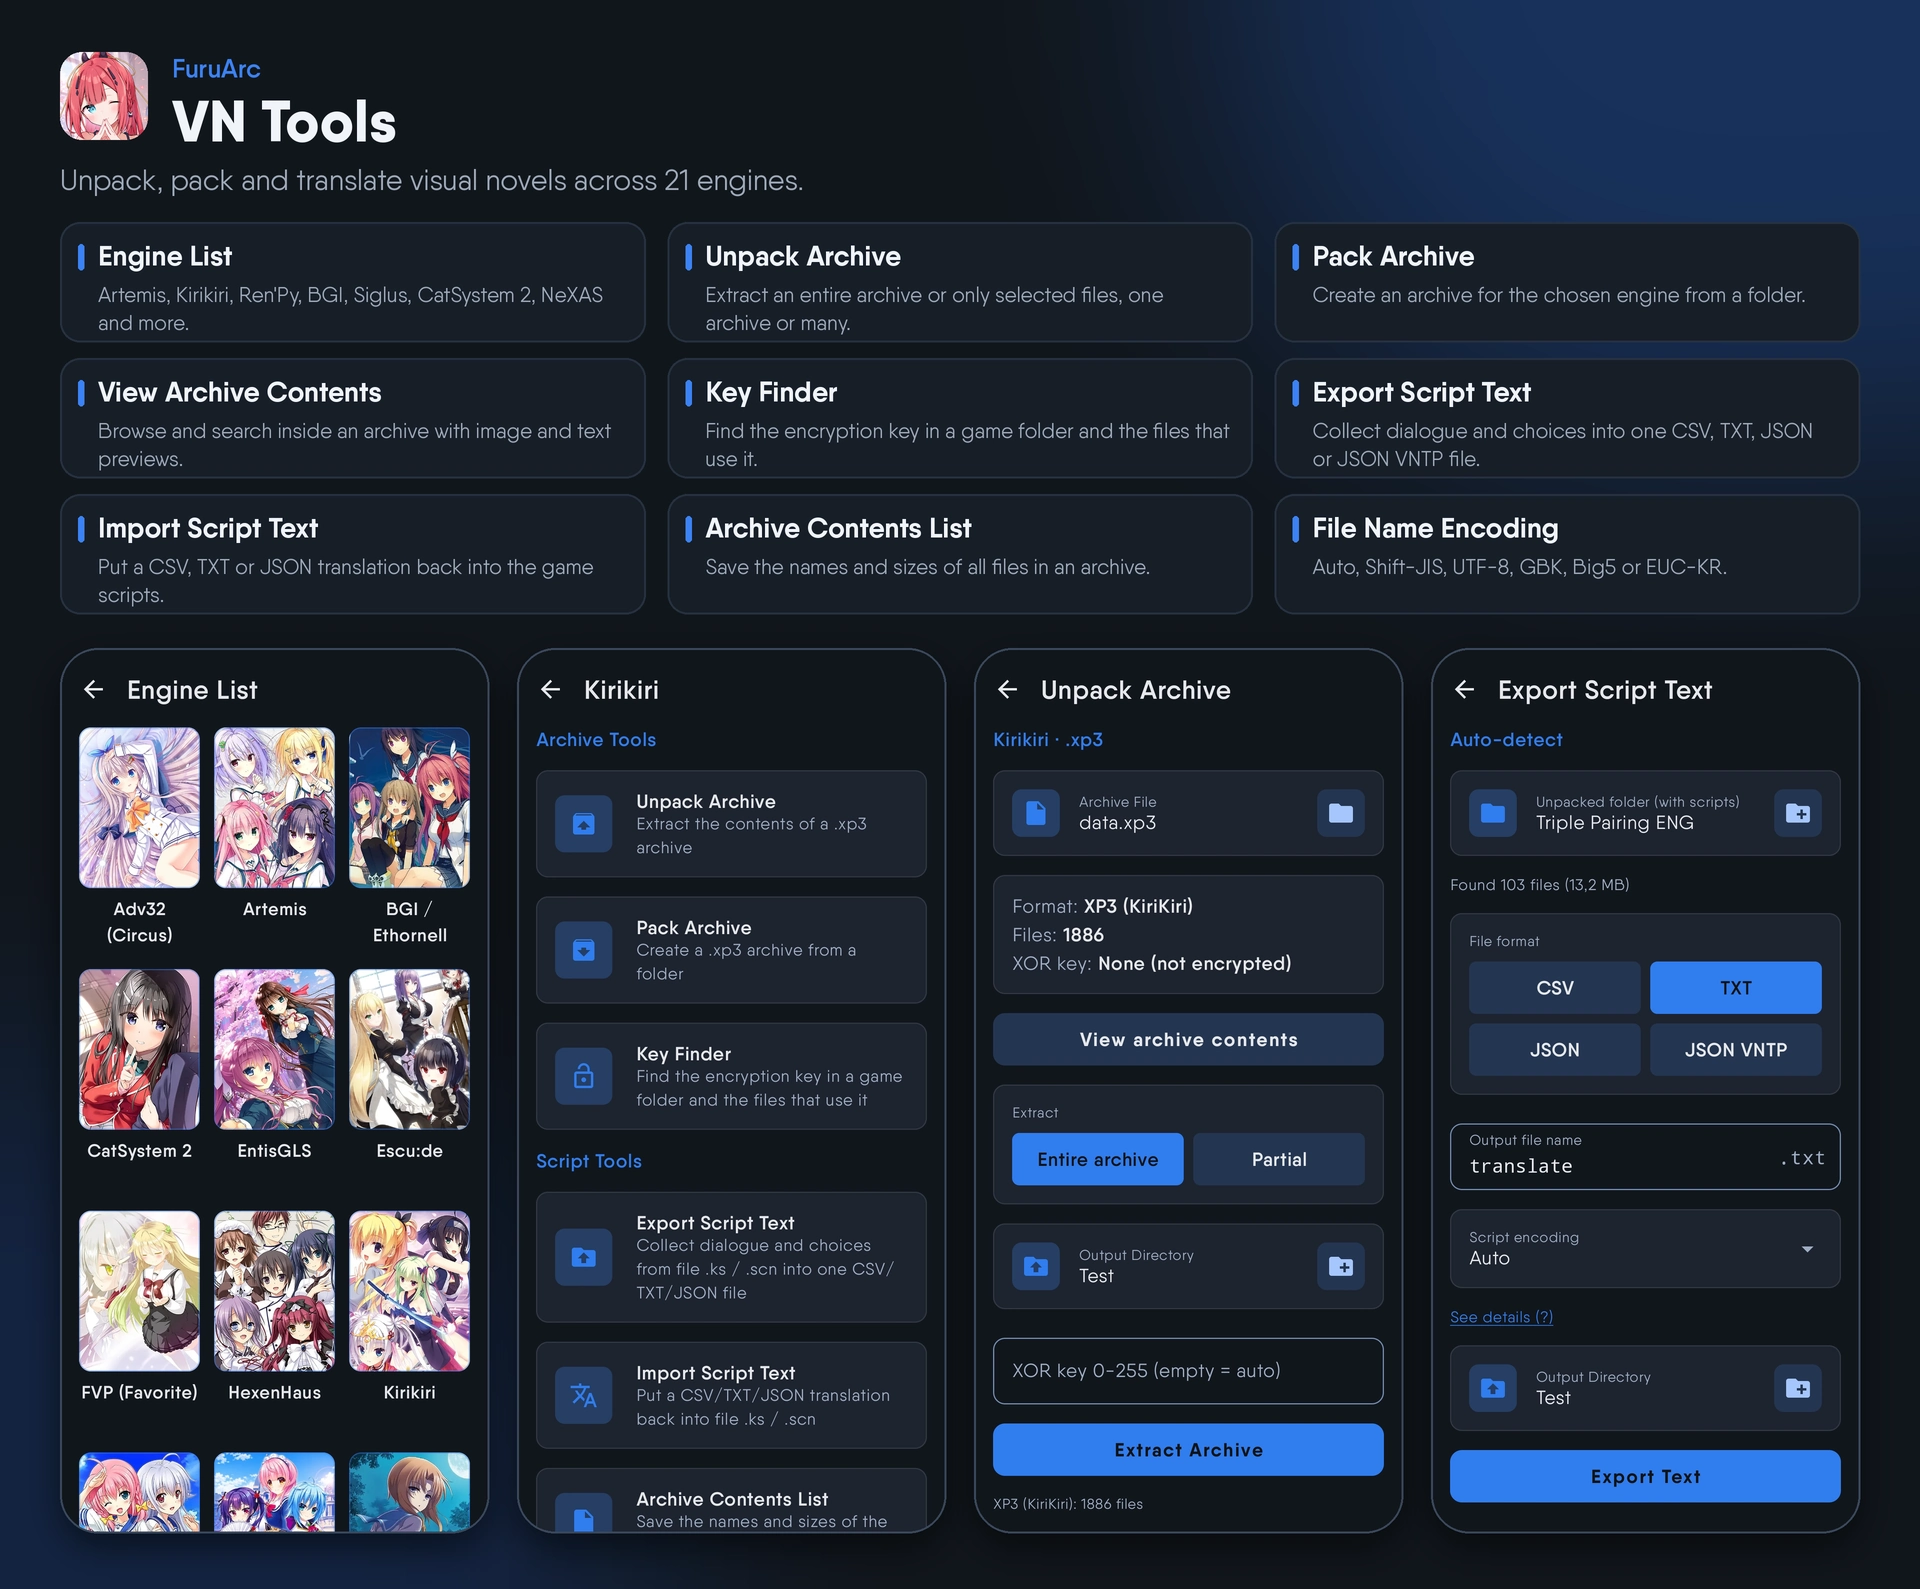
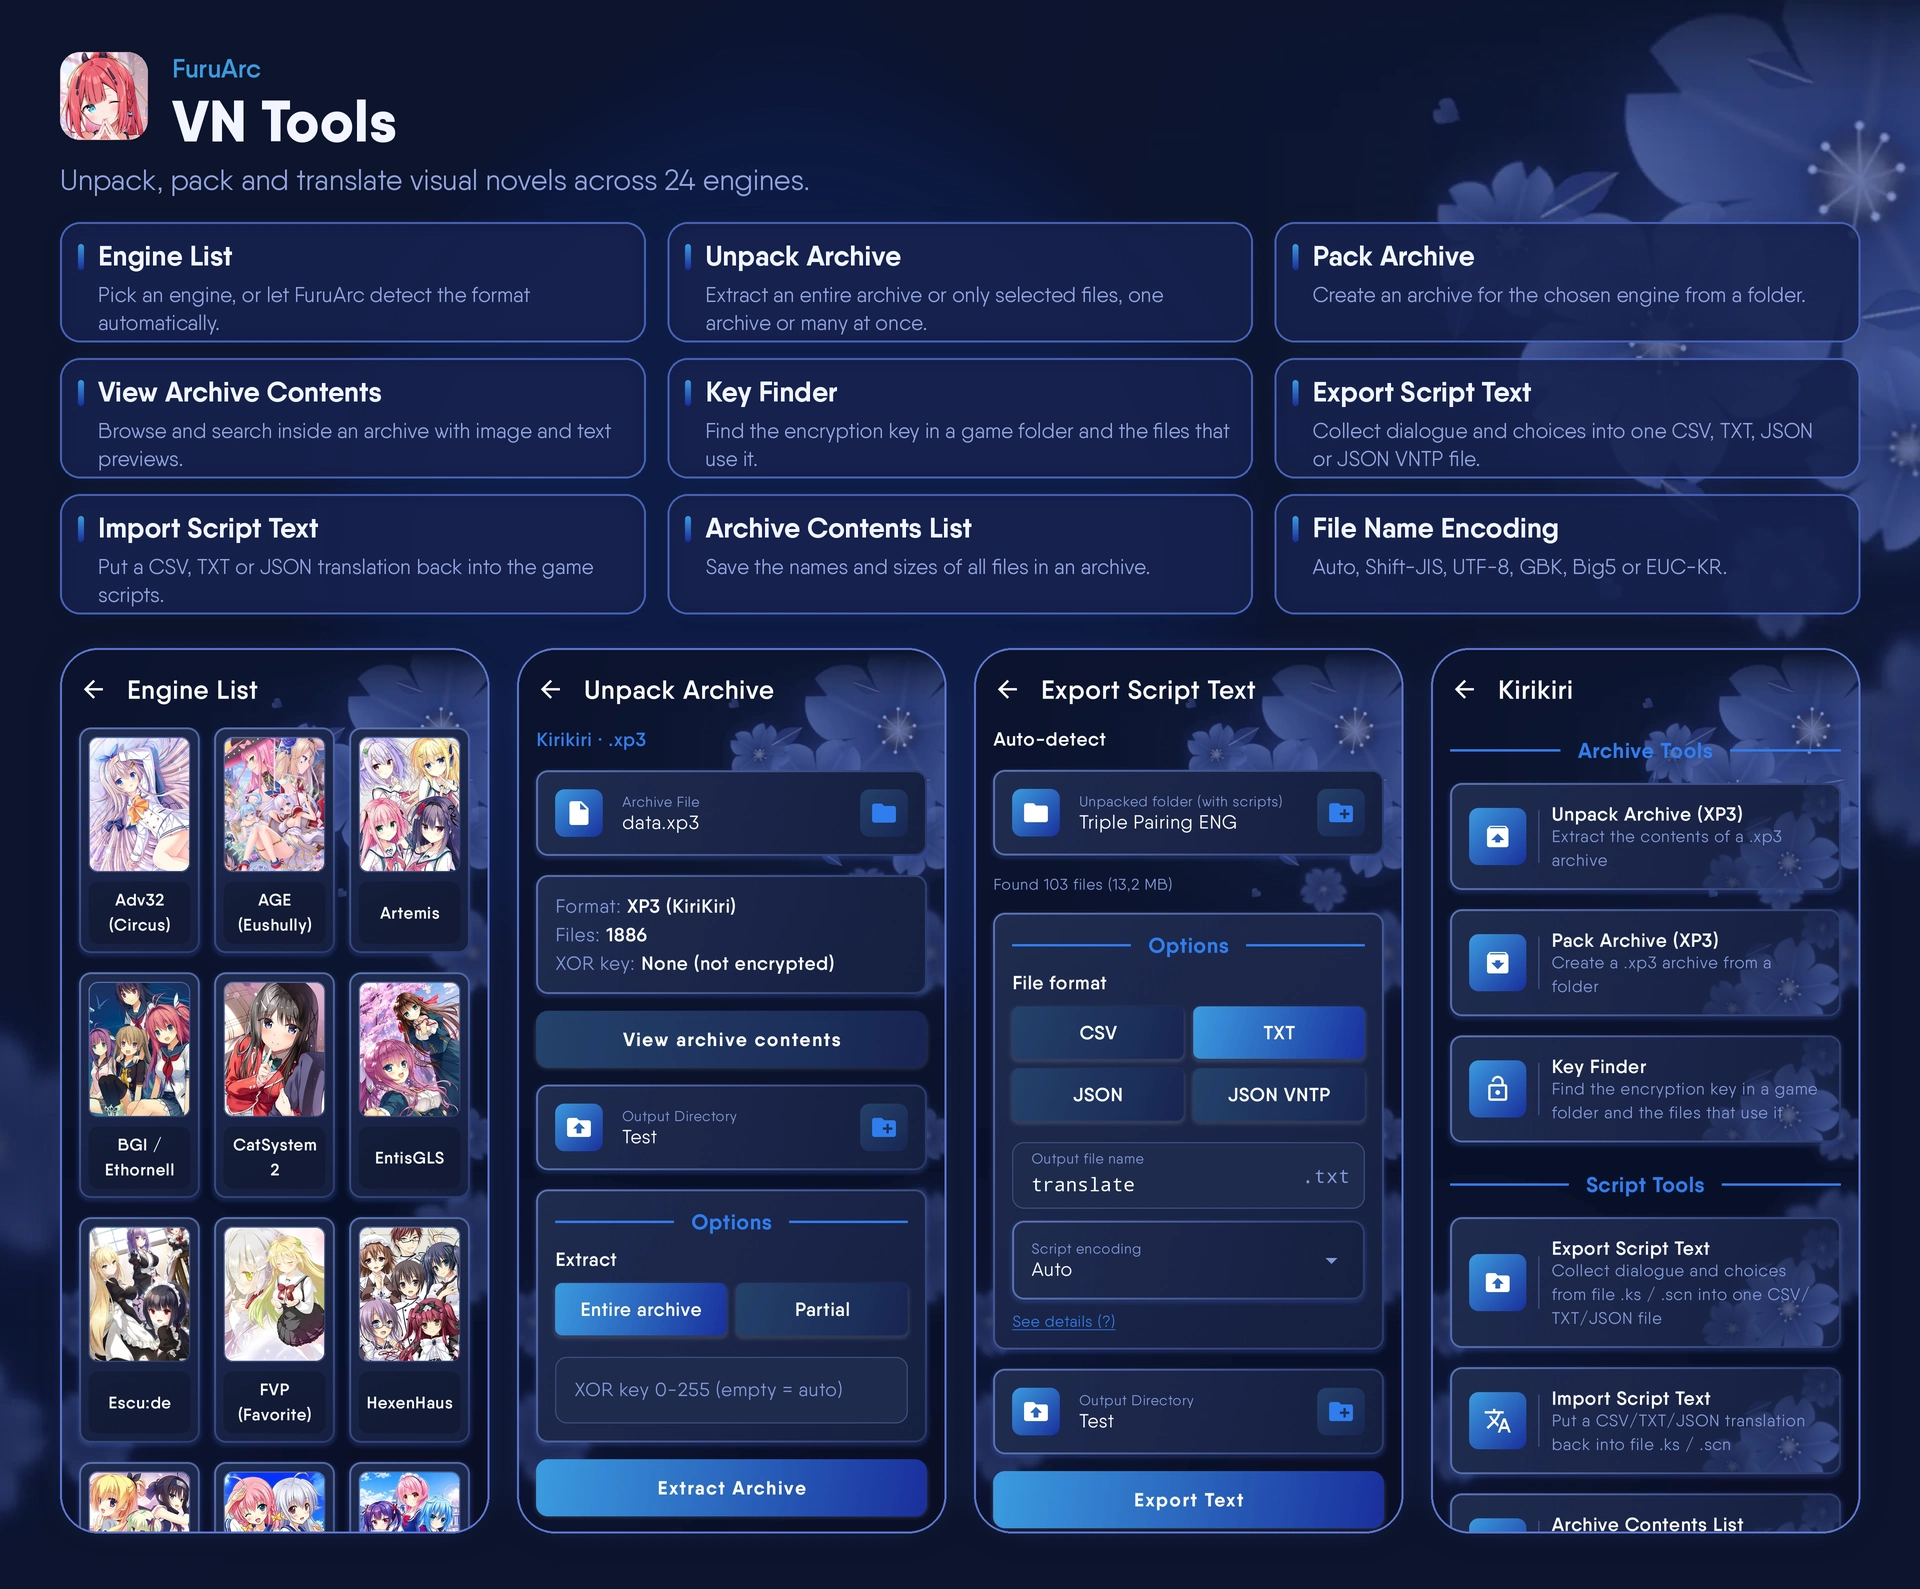
Updated in CHANGELOG 1.06

diff --git a/CHANGELOG.md b/CHANGELOG.md
@@ -21,7 +21,7 @@ All notable changes to FuruArc are listed here.
 - **Lists**: every list (Plugin lists and issues, folder check results, the file list of the text editors, Key Finder files, Compare Checks results, Duplicate File Finder groups, Name Optimizer previews, Bulk Rename preview, Bulk Replace matches, Format Test results) sits on a label background with 50 items per page; the page buttons appear only above 50 items. Bulk Rename has an Options part and a Preview part.
 - **Text areas**: the View and the Edit text areas, including the JSON tree and text views and the CSV / INI table editors, sit on an opaque label background like the Hex Viewer. In the File Text Editor, the Edit button of the View mode opens the file in the editor at once.
 - **Options parts**: a part that only holds text (the note of the script tools) has no label background; the Output Folder of the File Splitter and File Cutter sits outside the Options background. In Format Test the description is a collapsible text below the engine choice inside Options.
-- **Guide**: the ‹ and › buttons of the search bar sit on a label background; the Source page lists Tyranor Next (reference for the look of the app) at the bottom. The sort menus are narrower (232dp) and the Game Assets card menu is narrower still (144dp).
+- **Guide**: the ‹ and › buttons of the search bar sit on a label background. The sort menus are narrower (232dp) and the Game Assets card menu is narrower still (144dp).
 - **Game Assets cards**: the round menu button is white and translucent in light mode, and its menu has the same border and shadow as the sort menu.
 - **Media Player settings file**: export and import now also carry the last played audio and video, the Gallery and the Queues (with their labels), besides the settings, folders, collections, playlists and favorites. Folder access can only be restored on the same device.
 - **Media Player**: the Gallery and the Audio / Video Queue have a sort icon to the left of the search icon. It sorts the list itself (so the play order follows). Gallery: file name, newest, oldest, size, random. Audio: title, artist, file name, duration, newest, oldest, size, random. Video: file name, duration, newest, oldest, size, random. Title, artist and duration are read from the file tags.
@@ -35,7 +35,7 @@ All notable changes to FuruArc are listed here.
 - **More colorful light mode**: the app background and card borders are tinted by the theme color, while cards stay near-white with a soft shadow, so menu cards clearly stand out from the background. In dark mode cards are clearly lighter than the background. Input controls (dropdown, dropdown menu, text field) use only a light tint of the card color and a softer border, so they no longer look heavy.
 - Cover placeholders (album art, thumbnails) keep their soft flat color.
 - **Card shadows in dark mode too**: Classic and Soft cards cast a grey-black shadow in light mode and the mirrored version in dark mode, a soft white glow below and around the card (the dark background is almost black so it stays visible). Game Assets cards and the Engine List cards (cover, border, shadow and name) have the same shadow and play the press, scroll jelly and entrance animations as one piece.
-- **Screen animations** (modelled on the motion code of Tyranor Next; all follow the Animations switch): switching between the four main tabs moves the whole page sideways with a spring (in the direction of the tab order, 6% depth scale and fade); opening a menu or page makes it rise from the bottom over the full screen height while the previous page recedes; going back sinks the page down again. Cards, buttons and chips shrink quickly when pressed and bounce back with overshoot (cards to 92%). While a list scrolls fast its cards stretch a little along the scroll direction and spring back when it stops (scroll jelly). Cards of a new screen pop in one after the other from top to bottom (staggered entrance).
+- **Screen animations** (modelled on the motion code of Tyranor Next; follow the Animations switch): switching between the four main tabs moves the whole page sideways with a spring (in the direction of the tab order, 6% depth scale and fade); opening a menu or page makes it rise from the bottom over the full screen height while the previous page recedes; going back sinks the page down again. Cards, buttons and chips shrink quickly when pressed and bounce back with overshoot (cards to 92%). While a list scrolls fast its cards stretch a little along the scroll direction and spring back when it stops (scroll jelly). Cards of a new screen pop in one after the other from top to bottom (staggered entrance).
 - **Translation Editor**: in the translation area every row (Original Text and the translation field) sits on its own label background (rounded panel with a thin rim, in the card colours of the selected style) so rows are easy to tell apart on the blossom artwork.
 - Guide (Settings, Translation Editor), README, README_ID and the language files (`docs/languages`, Settings guide entry) describe the new options.
 

diff --git a/README.md b/README.md
@@ -1,5 +1,5 @@
 <p align="center">
-  <img src="docs/pictures/0_header.webp" alt="FuruArc" width="100%">
+  <img src="docs/pictures/00_header.webp" alt="FuruArc" width="100%">
 </p>
 
 <p align="center">
@@ -168,7 +168,7 @@ Support Tools > Media Player has Image Gallery, Audio Player and Video Player.
 
 ### File & Folder Inspector
 
-<p align="center"><img src="docs/pictures/09_file_inspection.webp" alt="File & Folder Inspector" width="100%"></p>
+<p align="center"><img src="docs/pictures/09_file_and_folder_inspector.webp" alt="File & Folder Inspector" width="100%"></p>
 
 - **File Inspection**: format, checksum, corrupt files, encryption and wrong-code detection in one file.
 - **Folder Inspection**: inspect every archive and script in a folder at once.
@@ -189,6 +189,8 @@ Support Tools > Media Player has Image Gallery, Audio Player and Video Player.
 - **File Name Optimizer**: make file names safe (non-Latin characters) and update references before building an APK.
 
 ### Settings and updates
+
+<p align="center"><img src="docs/pictures/11_settings_and_updates.webp" alt="Settings and updates" width="100%"></p>
 
 - Theme (light / dark), language, accent color. Buttons and icon badges use a gradient derived from the accent color. In light mode the background is tinted by the theme color and cards stay near-white with a soft shadow; in dark mode cards are lighter than the background.
 - Screen animations: sideways slide between tabs, pages rise from the bottom when opened and sink when closed (switch off in Display settings).

diff --git a/README_ID.md b/README_ID.md
@@ -1,5 +1,5 @@
 <p align="center">
-  <img src="docs/pictures/0_header.webp" alt="FuruArc" width="100%">
+  <img src="docs/pictures/00_header.webp" alt="FuruArc" width="100%">
 </p>
 
 <p align="center">
@@ -168,7 +168,7 @@ Alat Pendukung > Media Player berisi Galeri Gambar, Pemutar Audio, dan Pemutar V
 
 ### Pemeriksa File dan Folder
 
-<p align="center"><img src="docs/pictures/09_file_inspection.webp" alt="Pemeriksa File dan Folder" width="100%"></p>
+<p align="center"><img src="docs/pictures/09_file_and_folder_inspector.webp" alt="Pemeriksa File dan Folder" width="100%"></p>
 
 - **Pemeriksaan File**: format, checksum, file rusak, enkripsi dan deteksi kode salah dalam satu file.
 - **Pemeriksaan Folder**: periksa semua arsip dan skrip dalam satu folder sekaligus.
@@ -189,6 +189,8 @@ Alat Pendukung > Media Player berisi Galeri Gambar, Pemutar Audio, dan Pemutar V
 - **Pengoptimal Nama File**: buat nama file aman (karakter non-Latin) dan perbarui referensinya sebelum membuat APK.
 
 ### Pengaturan dan pembaruan
+
+<p align="center"><img src="docs/pictures/11_settings_and_updates.webp" alt="Pengaturan dan pembaruan" width="100%"></p>
 
 - Tema (terang / gelap), bahasa, warna aksen. Tombol dan ikon memakai gradasi dari warna aksen. Di mode terang latar diberi warna sesuai tema dan kartu tetap putih keabuan dengan bayangan lembut; di mode gelap kartu lebih terang dari latar.
 - Animasi layar: geser samping antar tab, halaman naik dari bawah saat dibuka dan turun saat ditutup (bisa dimatikan di pengaturan Tampilan).
